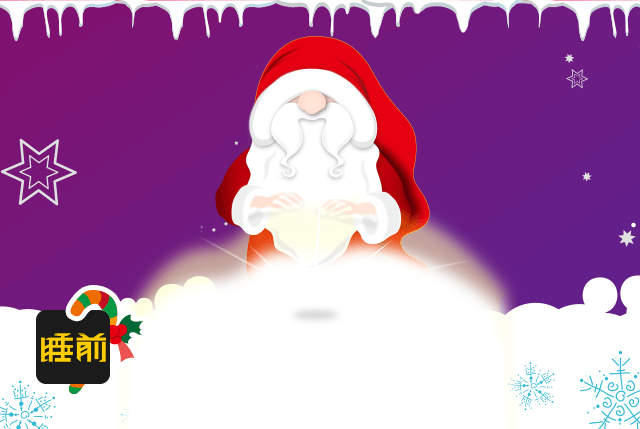
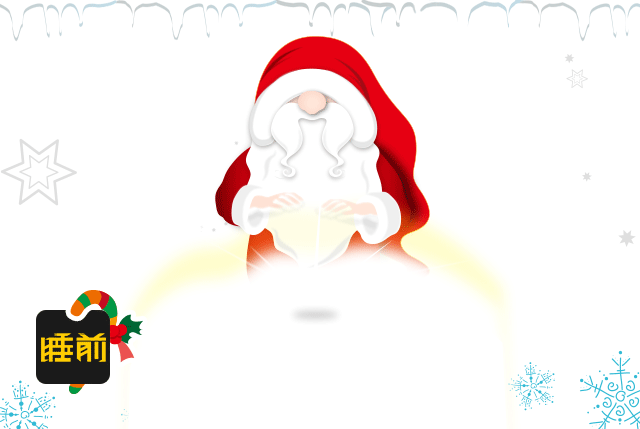
babel,背景图透明,渐变使用css实现。

diff --git a/res/css/index.less b/res/css/index.less
@@ -4,12 +4,19 @@
     user-select: none;
     -webkit-touch-callout:none;
     touch-callout:none;
+    .container{
+        background-image: -webkit-linear-gradient(-60deg,#9d0454,#61228d );
+        background-image: linear-gradient(150deg,#9d0454,#61228d );
+    }
     .up,.bottom{
         width: 100%;
         img{
             display: block;            
             width: 100%;
         }
+    }
+    .up{
+        padding: 10px 0;
     }
     .center{
         width: 100%;

diff --git a/html/index.html b/html/index.html
@@ -21,7 +21,7 @@
 <body class="index">
 <div class="container">
 	<div class="up">
-		<img src="../res/img/1/bg_02.png" alt="" />
+		<img src="../res/img/1/bg_02.png" />
 	</div>
     <div class="center">
     	<div class="top">
